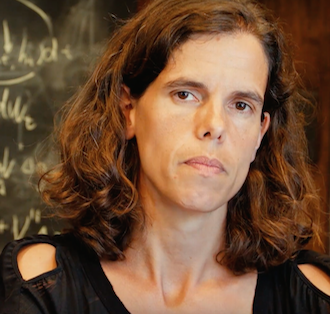
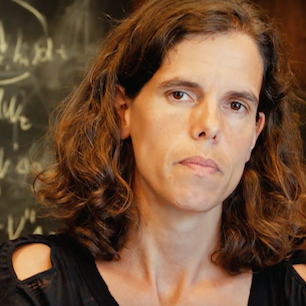
fix photo proportion

diff --git a/content/committees/index.md b/content/committees/index.md
@@ -8,22 +8,22 @@ showTableOfContents: false
 ## Program Chairs
 
 <div style="justify-content:space-between">
-    <figure style="max-width:25%;display:inline-block">
+    <figure style="max-width:25%;display:inline-block;padding-right:10px;padding-left:10px;">
         <img src="/committee_photos/nick_arnosti.jpeg"
             alt="Nick Arnosti">
         <figcaption style="text-align:center"> <a href="https://nickarnosti.com/">Nick Arnosti</a>, University of Minnesota</figcaption>
     </figure>
-    <figure style="max-width:25%;display:inline-block">
+    <figure style="max-width:25%;display:inline-block;padding-right:10px;padding-left:10px;">
         <img src="/committee_photos/caterina_calsamigli.png"
             alt="Caterina Calsamiglia">
         <figcaption style="text-align:center"> <a href="https://sites.google.com/site/caterinacalsamiglia/">Caterina Calsamiglia</a>, IPEG</figcaption>
     </figure>
-    <figure style="max-width:25%;display:inline-block">
+    <figure style="max-width:25%;display:inline-block;padding-right:10px;padding-left:10px;">
         <img src="/committee_photos/salvador_ruizcorrea.jpeg"
             alt="Salvador Ruiz-Correa">
         <figcaption style="text-align:center"> <a href="https://scholar.google.com/citations?user=LJNs7nwAAAAJ&hl=en&inst=7289110936595769722">Salvador Ruiz-Correa</a>, IPICYT</figcaption>
     </figure>
-    <figure style="max-width:25%;display:inline-block">
+    <figure style="max-width:25%;display:inline-block;padding-right:10px;padding-left:10px;">
         <img src="/committee_photos/john_dickerson.jpeg"
             alt="John P. Dickerson">
         <figcaption style="text-align:center"> <a href="https://jpdickerson.com/">John P. Dickerson</a>, Arthur </figcaption>
